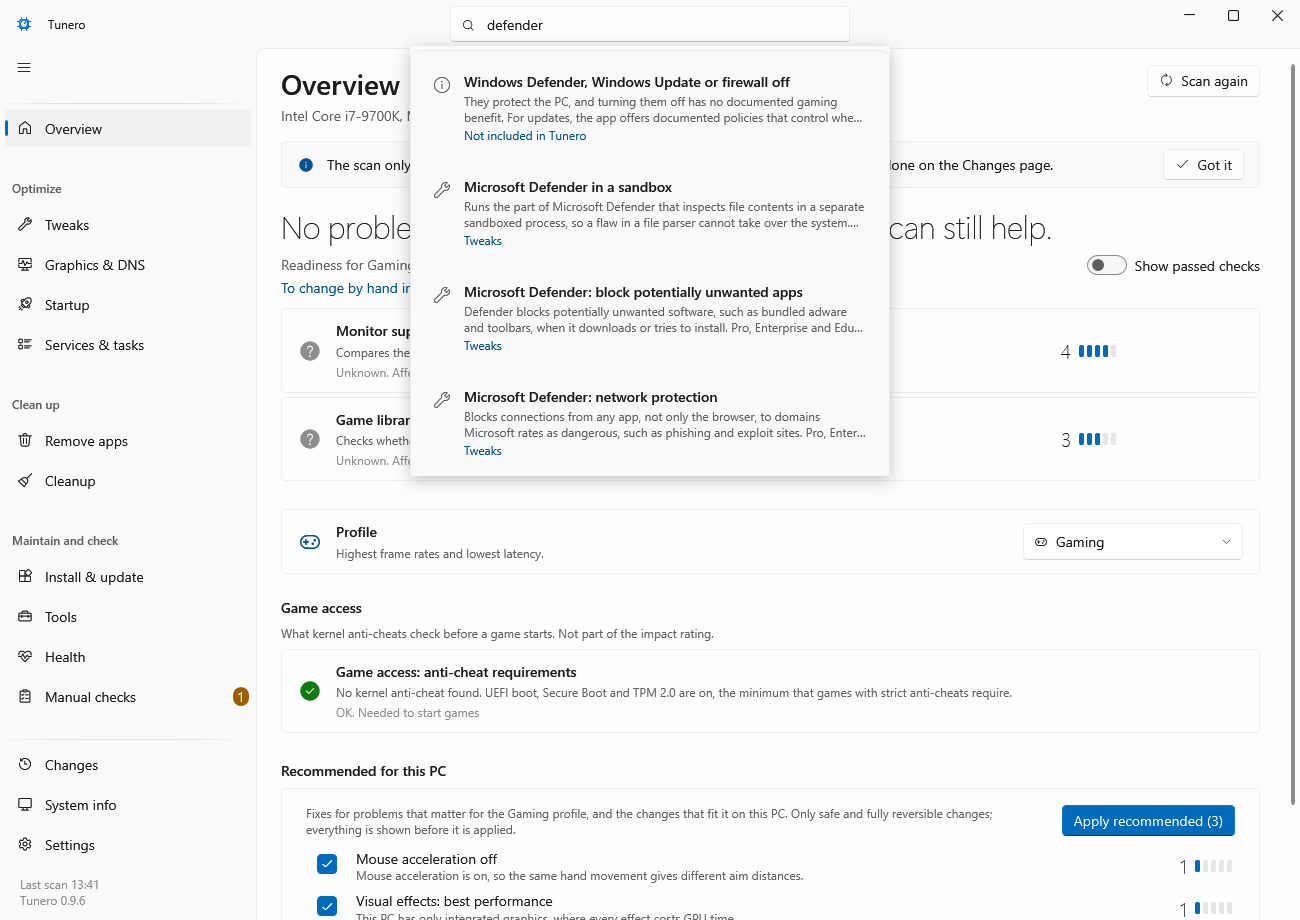
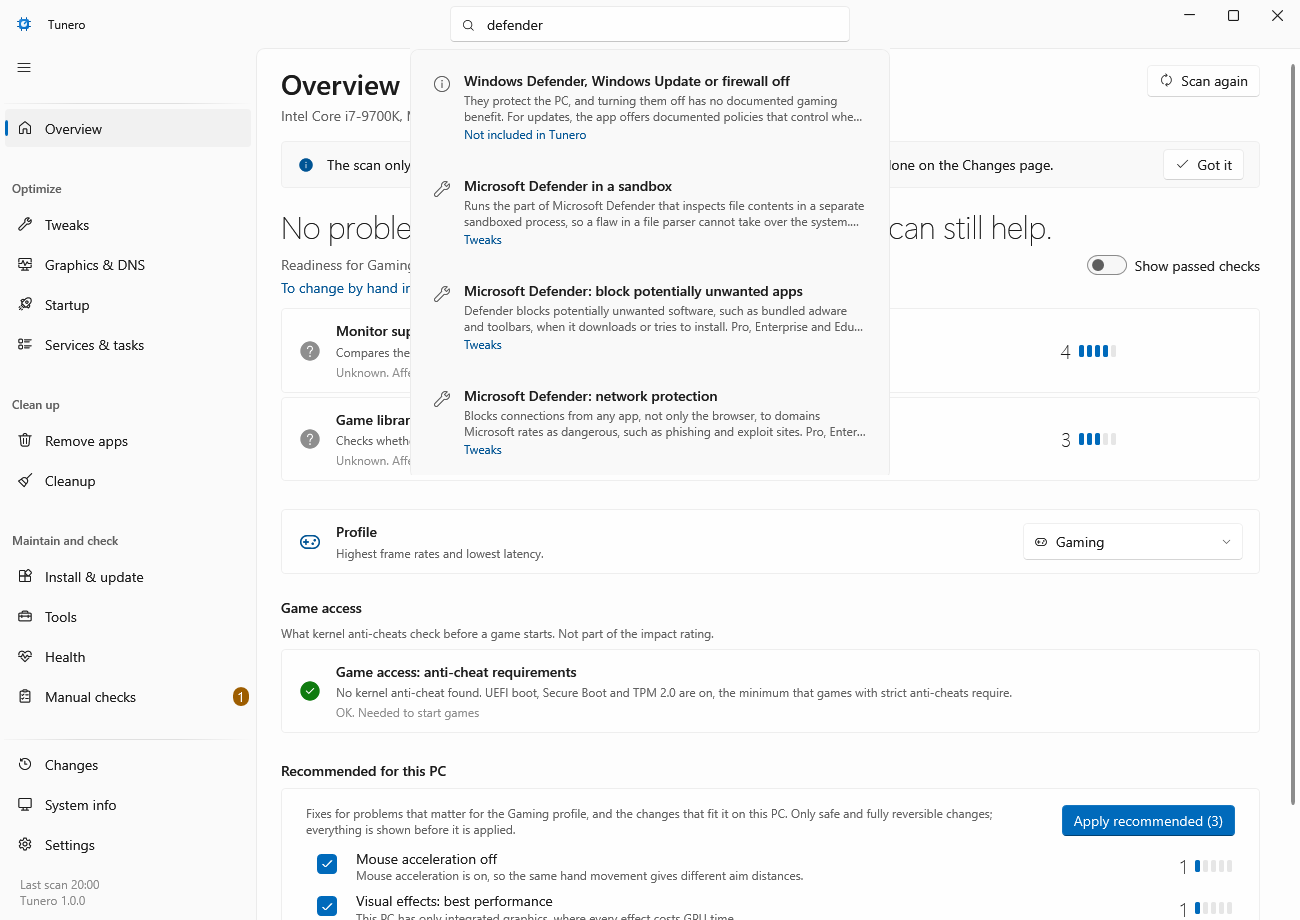
Release 1.0.0
CHANGELOG "Unreleased" becomes 1.0.0, the README's preview banner becomes "How it is tested", version 1.0.0. The
README and website screenshots, og.png and the apply and undo GIF are recorded again from the 1.0.0 build in the VM
(26H2). System info leaves an unknown memory speed out instead of showing " MT/s". On short windows (1920 x 1080 at
150 %) the navigation items take the compact height, so the rail no longer cuts off Manual checks. VM: Update all and
the small screen row pass.

diff --git a/src/Optimizer.App/Views/MainWindow.xaml.cs b/src/Optimizer.App/Views/MainWindow.xaml.cs
@@ -284,7 +284,19 @@ public partial class MainWindow : FluentWindow, IServiceProvider
             _paneCollapsedForHeight = false;
         }
         ShowGroupHeaders();
+        // Below this even the rail cut off its last page under the footer (1920 x 1080 at 150 %, VM): the items take the
+        // compact height of Windows Settings.
+        var compact = ActualHeight < CompactHeight;
+        if (compact == _compactNav) return;
+        _compactNav = compact;
+        foreach (var item in Nav.MenuItems.OfType<NavigationViewItem>().Concat(Nav.FooterMenuItems.OfType<NavigationViewItem>()))
+            item.Height = compact ? 36 : double.NaN;
     }
+
+    /// <summary>Window height below which the pages in the rail get the compact item height.</summary>
+    private const double CompactHeight = 700;
+
+    private bool _compactNav;
 
     private void ShowGroupHeaders()
     {

diff --git a/src/Optimizer.App/ViewModels/HardwareReport.cs b/src/Optimizer.App/ViewModels/HardwareReport.cs
@@ -240,7 +240,10 @@ public static class HardwareReport
         if (p.Memory is { } m)
         {
             var first = m.Modules.FirstOrDefault();
-            var detail = first is null ? "" : f.F("memoryValue", first.Type, RamSpeed.NormalizeConfigured(first), m.Modules.Count);
+            // Without a reported speed (virtual machines, some firmware) the line leaves it out instead of showing " MT/s".
+            var detail = first is null ? "" : RamSpeed.NormalizeConfigured(first) is { } speed
+                ? f.F("memoryValue", first.Type, speed, m.Modules.Count)
+                : f.F("memoryNoSpeedValue", first.Type, m.Modules.Count);
             tiles.Add(new HwTile(l["Hw_Memory"], f.Gb(m.TotalBytes), detail, SymbolRegular.Ram20));
         }
         if (p.Displays is { Count: > 0 } d)

diff --git a/CHANGELOG.md b/CHANGELOG.md
@@ -1,13 +1,15 @@
 # Changelog
 
-## Unreleased
+## 1.0.0
+
+The first release out of preview.
 
 ### Changed
 
 - **New check, restart pending:** the scan now says when Windows waits for a restart to finish updates (Windows Update's RebootRequired) or a feature change (component based servicing's RebootPending), the two flags Configuration Manager shows as "Pending Restart". Restart before you change settings or compare speed. Queued file renames do not count: programs leave them behind all the time.
 - **Command line, `--apply-recommended` and `--export`:** `--apply-recommended` applies the Overview's recommended list without the window, for the profile named with `--profile` (or the saved one), with the same rules as the button; changes that need their own confirmation are listed in the log. `--export <file>` writes the changes file of the Changes page. A profile this PC does not offer ends with the new exit code 9. Start priorities in an exported file now apply with `--apply` too, since they are no longer a preview.
 - **Startup page, Delete entry:** like Autoruns, a value in a Run, RunOnce or policy Run key and the cmd.exe AutoRun can now be deleted, for example one whose program was uninstalled. Unlike Autoruns, Tunero backs the value up first: the Changes page lists the deletion and Undo writes it back with its type. RunOnce, policy Run and AutoRun entries had no switch before, so this is the first way to stop them here.
-- **Installed programs, several at once:** tick programs and select "Uninstall selected" to remove them one after the other, as Bulk Crap Uninstaller does. With "Quietly where possible" on, Windows Installer programs and programs that register their own quiet command run without questions; the others show their window, and the next one starts when the program has left the list (or when you select Continue). Afterwards the page lists what the programs left behind: their folder in Program Files, ProgramData or AppData and Start menu or desktop shortcuts into it, but only folders no installed program, hidden component or service still uses. You review the list and move it to the Recycle Bin. A single uninstall gets the same check.
+- **Installed programs, several at once:** tick programs and select "Uninstall selected" to remove them one after the other, as Bulk Crap Uninstaller does. With "Quietly where possible" on, Windows Installer programs and programs that register their own quiet command run without questions; the others show their window, and the next one starts when the program has left the list (or when you select Continue). Afterwards the page lists what the programs left behind: their folder in Program Files, ProgramData or AppData (also for Windows Installer programs that record no install folder) and Start menu or desktop shortcuts into it, but only folders no installed program, hidden component or service still uses. You review the list and move it to the Recycle Bin. A single uninstall gets the same check.
 - **Program start priorities are no longer a preview:** a test in the VM confirmed that Windows applies them (a program with a rule for Below normal and low disk priority started with both, and with Normal again after Undo). They keep the "Undocumented value" badge, because Microsoft does not document the values.
 - **Faster start:** the first scan result shows about half a second sooner (1.95 s to 1.4 s on a test PC). Scheduled tasks and shortcuts are read through their COM interfaces directly instead of late-bound calls, which compiled a binder on first use (the task list takes half as long, a shortcut a fifth). Memory compression and the DoH servers are read from the WMI classes behind Get-MMAgent and Get-DnsClientDohServerAddress instead of starting PowerShell twice per scan (milliseconds instead of about half a second each; the changes still run through the cmdlets). The tweak states are read in the same background step as the scan, while the window is still being drawn. The embedded catalogs are read on a background thread while WPF starts, instead of on the UI thread after it.
 
@@ -36,6 +38,8 @@
 
 - **Keyboard and screen readers:** Tab no longer stops on cards and lists that do nothing (a screen reader read them as an empty "pane" or "list", and on Tools every card before its own button), the group headings in the navigation are no Tab stops and are read by their text instead of a control type name, and the navigation button, the window buttons and the explanation in the details pane have names. Checked on every page and in the confirmation: every stop now has a name. Screen readers also reach the switches and buttons inside list rows (Startup, Services, Tweaks, Installed programs and the other lists): UI Automation showed each row as an empty item, so Narrator's scan mode and Voice Access could not find them.
 - **Change log after an undo:** undoing a change built for this PC (a deleted or switched-off startup entry, a service, a device setting, a fix from the scan) logged its internal id, such as `startup.delete.runkey.runuserrun...`, on the Changes page. It now shows the title, as in the list above it ("Delete startup entry: Steam").
+- **Small screens:** at 1920 x 1080 with 150 % scaling (a common laptop setting) the navigation rail cut off its last page, Manual checks, under the footer. On short windows the pages now take the compact item height of Windows Settings.
+- **System info, memory:** without a reported speed (virtual machines, some firmware) the tile read "Unknown,  MT/s"; it now leaves the speed out.
 - **Contrast themes:** text in the accent color (the "Recommended" lines on the Tweaks page, the place of a search result) stayed dark blue on black. It now uses Windows' link color, like Windows' own apps.
 - **Undo all and `--undo-all`** passed over a backup they could not read (damaged, locked by another program, or written by a newer version), so the change it records stayed in place without a word. It is now reported as not undone, with the file and the reason.
 - **Restore point:** within Windows' limit (one restore point a day unless the limit is lifted) Windows skips a new one and still reports success, so the app counted an older restore point as made for this change. It now checks the limit first and asks you, as when System Protection is off.

diff --git a/docs/vm-test-plan.md b/docs/vm-test-plan.md
@@ -56,7 +56,7 @@ Add-LocalGroupMember -SID 'S-1-5-32-578' -Member ([Security.Principal.WindowsIde
 | Language and theme | Switch to Deutsch and Dark in Settings, restart the app: both kept | |
 | Update check | Turn on, restart the app: no error; with a newer published release a banner links to the release page | |
 | 24H2 | On a 24H2 VM (build 26100): the app starts with the note that 24H2 is no longer supported; Undo of a change made there works | |
-| Small screen | Display at 1920 x 1080 and 150 % scaling: the window fits above the taskbar (footer and result bar visible); a confirmation with many changes (Apply recommended) keeps its buttons on screen | |
+| Small screen | Display at 1920 x 1080 and 150 % scaling: the window fits above the taskbar (footer and result bar visible); a confirmation with many changes (Apply recommended) keeps its buttons on screen | OK 2026-10-13 (26H2, basic session): the window opens maximized above the taskbar with the rail, Apply recommended keeps Apply and Cancel on screen; the rail cut off Manual checks, fixed with compact items |
 | High contrast | Turn on a contrast theme (Settings > Accessibility > Contrast themes) while the app runs: it switches to Windows' colors, every page stays readable; turn it off: Light or Dark again | OK 2026-10-13 (26H2, enhanced session): Overview, Tweaks, Changes and Settings in the contrast colors, Light again afterwards; the accent text ("Recommended" lines) was dark blue on black, fixed to Windows' link color |
 | Sources | Select a tweak, click a source at the end of its page: it opens in the browser of the signed-in user; Tab reaches the links | OK 2026-10-13 (26H2): Tab from the explanation to source 1, Enter opens it in Edge as the signed-in user, not elevated |
 | Failed self-update start | Update with the new exe blocked (an antivirus quarantine, or delete the new exe in the second between install and start under a debugger): the previous version is put back and the message says so | |
@@ -355,7 +355,7 @@ These tweaks use values Microsoft does not document and stay previews until a te
 | Health | Frame time benchmark with PresentMon; throttle check; PawnIO install from the Health page and uninstall with winget | |
 | Desktop program uninstaller | Uninstall one machine-wide program (restore point first, runs elevated) and one per-user program (runs as the signed-in user); an MSI entry under HKCU runs msiexec as the user; the list updates after Refresh | |
 | Uninstall several programs | Tick an MSI program (7-Zip MSI), an Inno Setup program with a QuietUninstallString and a per-user program; Uninstall selected with "Quietly where possible": the confirmation names which run quietly, the MSI and Inno ones run without a window one after the other, the per-user one shows its window and the queue waits until it has left the list (Continue skips the wait, Stop starts no more). Afterwards "Left behind" lists a folder the uninstaller kept (create a file in the program folder before) and its Start menu shortcut, never Program Files itself or a shared vendor folder another installed program uses; Move to Recycle Bin puts them there and they can be restored | OK 2026-10-13 (26H2: 7-Zip MSI, Inno Setup and VS Code for the user removed quietly in a row, the queue waited until VS Code left the list; three folders and three shortcuts offered and moved to the Recycle Bin with their original places. The run found two bugs, fixed the same day: VS Code removes its entry before its files, so the check now waits until the folders stop changing; 7-Zip's MSI records no folder, which now comes from Windows Installer's component records) |
-| Update all (winget) | Runs `winget upgrade --all --scope machine` with the output in the app, then a winget window as the signed-in user for per-user programs; a winget copy of Tunero is not replaced while it runs | |
+| Update all (winget) | Runs `winget upgrade --all --scope machine` with the output in the app, then a winget window as the signed-in user for per-user programs; a winget copy of Tunero is not replaced while it runs | OK 2026-10-13 (26H2): 7-Zip 23.01 to 26.04 machine-wide with the output in the app, then a winget window as the signed-in user (not elevated) updated App Installer and Windows Terminal; the winget copy of Tunero not tested (none installed) |
 | .NET Desktop Runtimes | Install .NET Desktop Runtime 8 and 10 from the Apps page | |
 | Fixes and repair (Tools) | Each of the 10 quick fixes: renew IP (connection back afterwards, also when one adapter fails to release), TCP/IP reset (restart needed), audio, Bluetooth and Search restart, graphics driver restart (screen flashes, apps keep running), time sync, performance counters, chkdsk /scan (output shown), recovery environment on | |
 | Program start priorities | Add a rule for PING.EXE with "Below normal" and low disk priority (notepad.exe on Windows 11 is only a stub for the Store app), start `ping -n 6 127.0.0.1`: Task Manager shows the priority; remove the rule: back to normal | OK 2026-10-13, build 26300: BelowNormal and I/O priority 1 with the rule, Normal and 2 after Undo, PerfOptions key removed |

diff --git a/README.md b/README.md
@@ -6,8 +6,6 @@
 
 Tunero finds what really costs your games frame rate, fixes what it can and tells you how to fix the rest. It brings the useful settings of the popular tweak tools, debloat scripts and system utilities into one app (privacy, debloat, cleanup, startup, services, Windows Update) and leaves out the placebo. Every finding and every change comes with an explanation and sources, and every setting it changes is backed up first and can be undone. Gaming first, with profiles for laptops, battery, office, quiet and older PCs. One exe for Windows 11 25H2 or newer (x64), in English and German. Website: [tunero.dev](https://tunero.dev).
 
-> **Status: preview.** The tests apply and undo every catalog tweak made of registry values against a registry sandbox, restore a saved backup of every kind of change the way an earlier version wrote it, and run the other changes against fake system interfaces; the [VM test plan](docs/vm-test-plan.md) runs on Windows 11 26H2 Pro in a Hyper-V virtual machine before releases (Home and 25H2 are supported but have been tested less). A few parts need hardware a virtual machine does not have (NVIDIA driver settings, network adapter properties, laptop and battery checks, AMD-specific checks): tweaks that are not proven yet carry a **Not yet tested on a real PC** badge and are never part of "Apply recommended". Create a restore point or a backup before you change anything; the app creates one before its first change if System Protection is on.
-
 <p align="center"><img src="docs/screenshots/flow.gif" width="800" alt="The scan, the confirmation of the recommended changes with the exact values, the question to turn on System Protection for a restore point, the Changes page, and Undo all"></p>
 
 ## Download
@@ -65,6 +63,10 @@ The app uses settings that Microsoft or the hardware vendor documents. A few har
 - **No placebo.** Popular tweaks without evidence are left out, and the search says why when you look for one. The full list with sources is in [docs/not-included.md](docs/not-included.md).
 - **It looks at your PC first.** It recommends only what fits this PC and your profile, and keeps risky changes behind Expert mode.
 - **Nothing runs in the background.** No service, no tray icon, no telemetry. Windows applies the settings itself; the app runs only when you start it.
+
+## How it is tested
+
+The tests apply and undo every catalog tweak made of registry values against a registry sandbox, restore a saved backup of every kind of change the way an earlier version wrote it, and run the other changes against fake system interfaces; the [VM test plan](docs/vm-test-plan.md) runs on Windows 11 26H2 Pro in a Hyper-V virtual machine before releases (Home and 25H2 are supported but have been tested less). A few parts need hardware a virtual machine does not have (NVIDIA driver settings, network adapter properties, laptop and battery checks, AMD-specific checks): tweaks that are not proven yet carry a **Not yet tested on a real PC** badge and are never part of "Apply recommended". Create a restore point or a backup before you change anything; the app creates one before its first change if System Protection is on.
 
 ## What it does not replace
 

diff --git a/docs/TODO.md b/docs/TODO.md
@@ -2,12 +2,12 @@
 
 What is still open after the audit of 2026-10-13 ([audit-2026-10-13.md](audit-2026-10-13.md)) and its fixes. Every high finding and every medium marked as a 1.0 blocker there is fixed in code; what follows needs a person, a VM image or hardware we do not have, or is planned work.
 
-## Before 1.0
+## Left from the 1.0 list
 
 - **Backup update key in the Scoop bucket:** the key pair exists (public half committed as `update-key-backup.pem`, private half offline with the owner) and every workflow here checks against both keys; the bucket's pinned copy in `keys/` still needs it.
 - **VM runs we could not do yet:** the core plan on Windows 11 25H2 Pro and on a Home edition (needs those VM images), and once on 24H2 to see the "no longer supported" note with a working Undo.
-- **New VM plan rows** (section 1 and 6 of [vm-test-plan.md](vm-test-plan.md)): small screen at 150 % (needs a basic session: in an enhanced session the remote desktop client sets the scale), a failed start after a self-update (needs a signed release newer than the installed one: the update to 1.0.1), the Startup page's task rows, Update all with machine and user scope.
-- **Release:** rename `## Unreleased` in CHANGELOG.md to `## 1.0.0`, drop "(preview)" and the README status banner, decide on code signing (SignPath declined on 2026-10-13), and get the first winget and Chocolatey versions through review or keep them marked pending.
+- **New VM plan rows** (section 1 and 6 of [vm-test-plan.md](vm-test-plan.md)): a failed start after a self-update (needs a signed release newer than the installed one: the update to 1.0.1).
+- **Release:** decide on code signing (SignPath declined on 2026-10-13), and get the first winget and Chocolatey versions through review or keep them marked pending.
 - **Listen once with Narrator** over Overview, Tweaks, the confirmation and Changes. The Tab order and the names it reads were checked on every page and in the confirmation with `--tab-order` and UI Automation (2026-10-13); what is left is hearing it on a desktop, for example whether a result is announced.
 
 ## Checks in the VM (from earlier runs)
